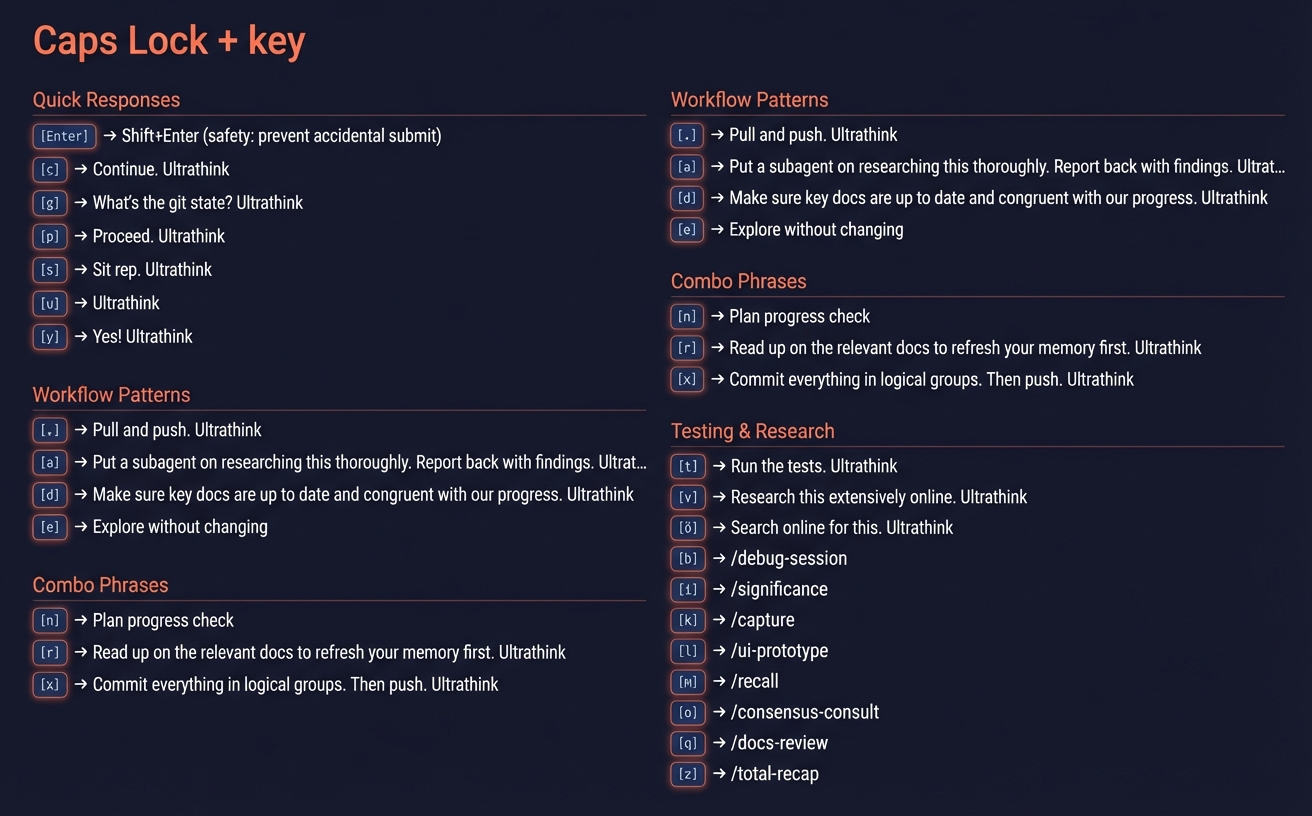
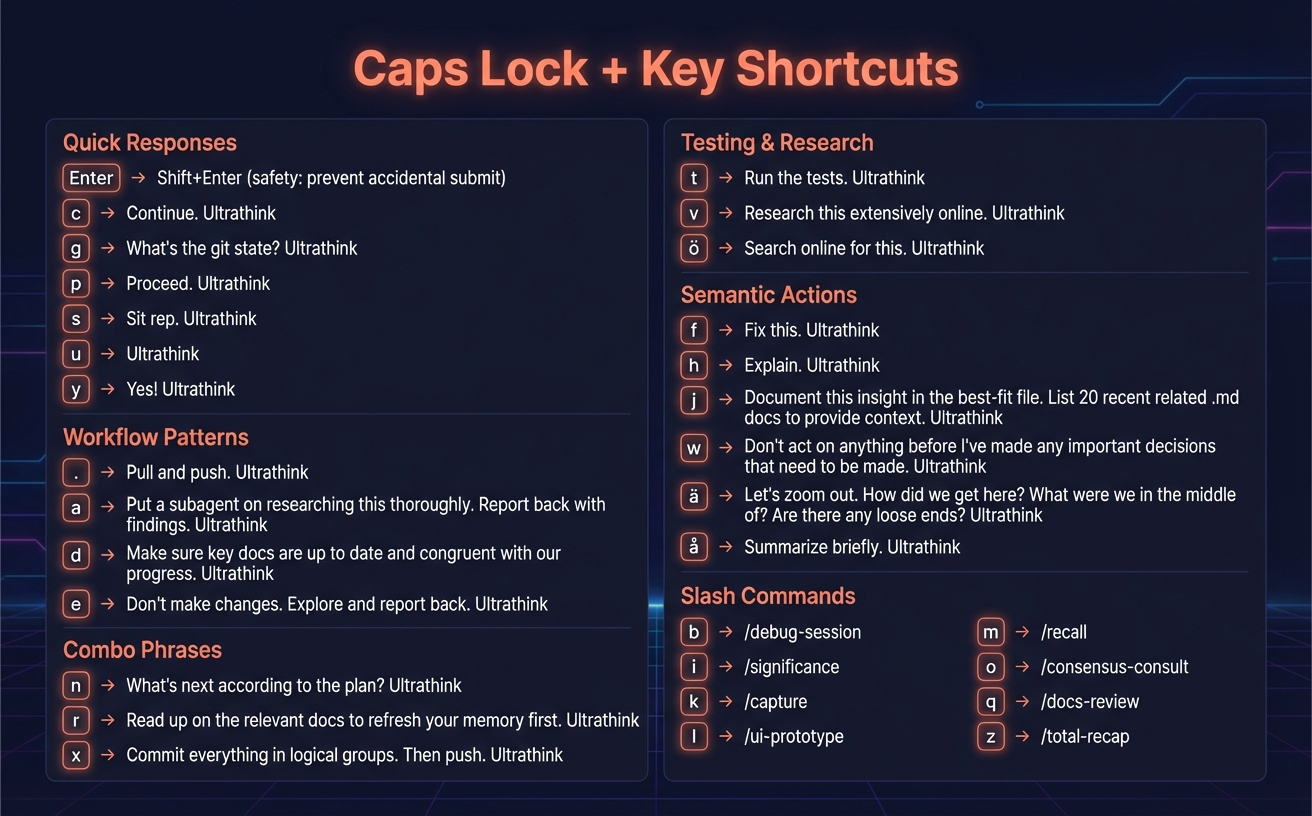
Fix cheatsheet regex for escaped apostrophes
The ä shortcut "Let's zoom out..." was truncating at the apostrophe.
Fixed regex to properly handle shell escape sequence '\\'' for quotes.

🤖 Generated with [Claude Code](https://claude.com/claude-code)

diff --git a/scripts/generate_cheatsheet_ai.py b/scripts/generate_cheatsheet_ai.py
@@ -98,11 +98,16 @@ def extract_keyboard_shortcuts(config_path: Path) -> list[dict]:
 
         # Extract the actual text from shell command
         shell_cmd = m["to"][0].get("shell_command", "")
+        # Match text between "set the clipboard to" and the next osascript command
+        # Handle both "double quoted" and 'single quoted' with escaped apostrophes
         text_match = re.search(
-            r'set the clipboard to [\\"]+"?(.+?)[\\"]+"?\s*\'', shell_cmd
+            r'set the clipboard to [\\\'"]+(.+?)[\\\'"]+\s*-e\s', shell_cmd
         )
         if text_match:
-            output_text = text_match.group(1).replace('\\"', '"').replace("\\\\", "\\")
+            output_text = text_match.group(1)
+            # Clean up shell escape sequences and surrounding quotes
+            output_text = output_text.strip('"\'')
+            output_text = output_text.replace("'\\''", "'").replace("\\'", "'").replace('\\"', '"').replace("\\\\", "\\")
         else:
             output_text = name
 
